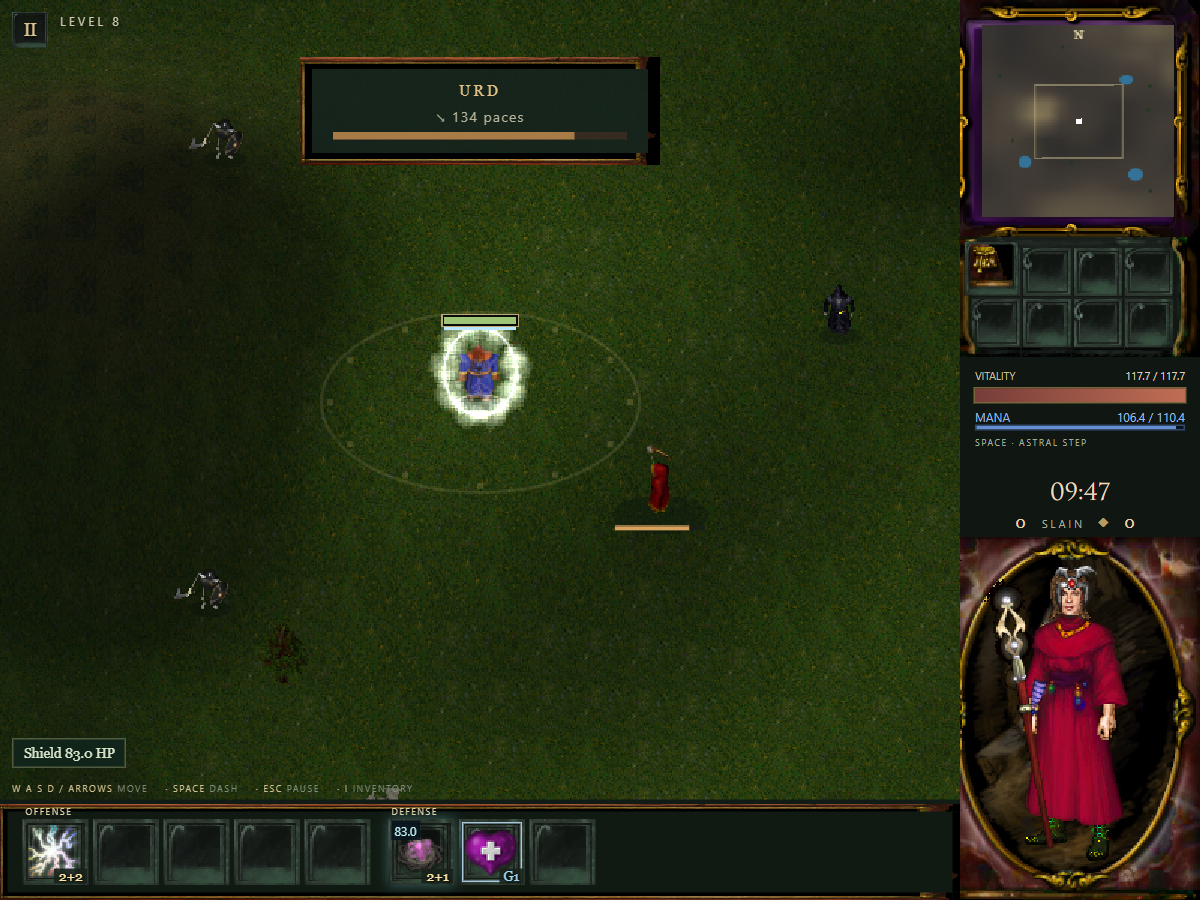
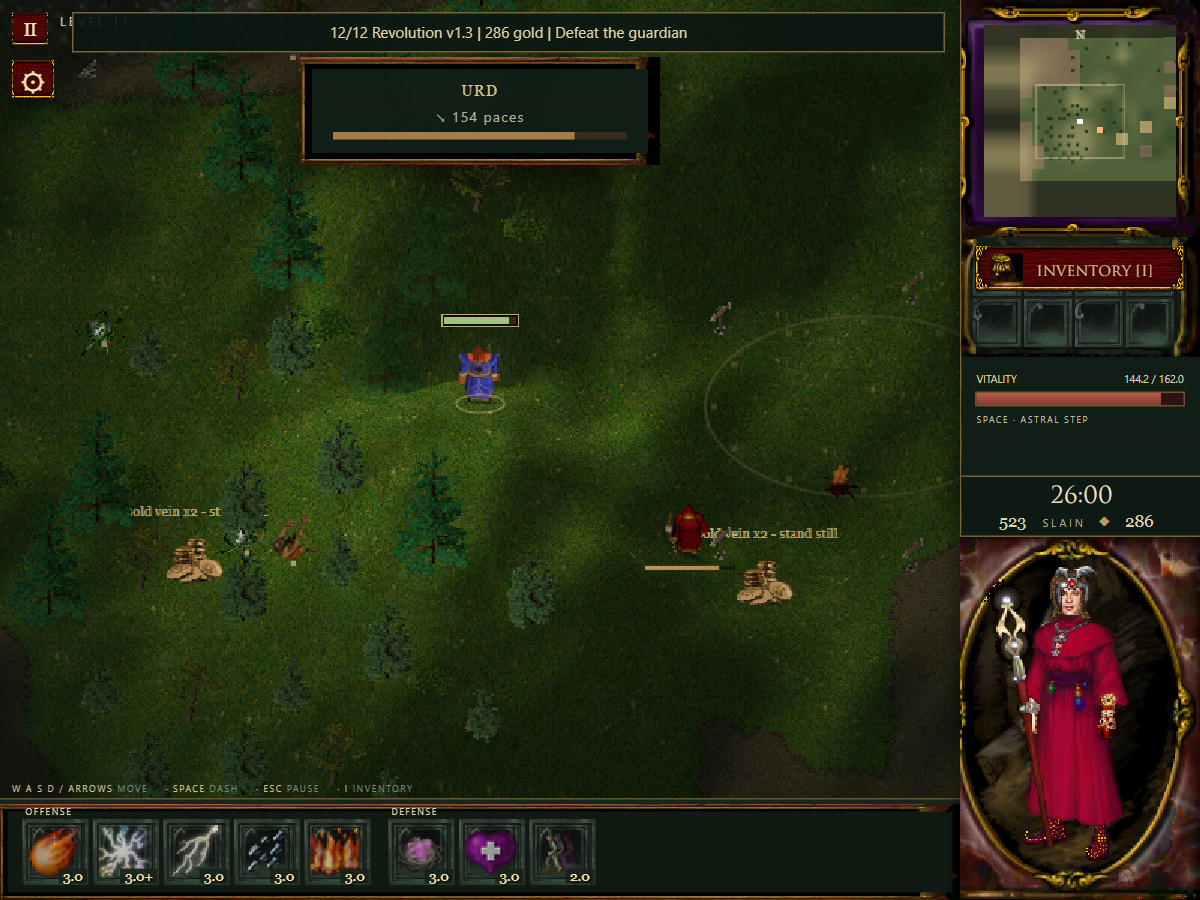
Refresh screenshots and project credits, fix responsive main menu

diff --git a/survivors/index.html b/survivors/index.html
@@ -2,5 +2,5 @@
 <html lang="en"><head><meta charset="utf-8"><meta name="viewport" content="width=device-width,initial-scale=1,viewport-fit=cover"><title>Allods Survivors</title><link rel="icon" href="assets/portrait-dragon.png"><link rel="stylesheet" href="style.css"><link rel="stylesheet" href="allods-ui.css"><link rel="stylesheet" href="lowres.css"><link rel="stylesheet" href="inventory.css"><link rel="stylesheet" href="shop.css"><link rel="stylesheet" href="vanilla-hud.css"><link rel="stylesheet" href="fonts.css"><link rel="stylesheet" href="forest-ui.css"><link rel="stylesheet" href="inspection.css"></head>
 <body><div id="game"><canvas id="world" aria-label="Allods Survivors battlefield"></canvas>
 <div id="hud" hidden><header><div class="brand">ALLODS <span>SURVIVORS</span></div><div class="clock" id="clock">00:00</div><div class="counters"><span id="kills">0</span> SLAIN <i>◆</i> <span id="gold">0</span></div></header><div class="xp-track"><div id="xp-fill"></div></div><div class="level-label" id="level">LEVEL 1</div><div id="announcement"></div><footer><div class="health-panel"><div class="health-heading">VITALITY <span id="hp-text"></span></div><div class="health-track"><div id="hp-fill"></div></div><div id="dash-label">SPACE · ASTRAL STEP</div></div><div id="skills"></div><button class="icon-button" id="pause-button" title="Pause (Escape)">Ⅱ</button></footer><div class="hint">W A S D / ARROWS <span>MOVE</span> · SPACE <span>DASH</span> · ESC <span>PAUSE</span></div></div>
-<main id="menu" class="overlay"><section class="menu-panel"><div class="eyebrow">A FRAGMENT OF A SHATTERED WORLD</div><h1>ALLODS<span>SURVIVORS</span></h1><div class="ornament">────── ◆ ──────</div><p class="intro">Explore native allods. Defeat their guardians. Escape.</p><div class="choose-label">CHOOSE YOUR WANDERER</div><div id="classes"></div><button id="start" class="primary" disabled>Awakening the allod…</button><div class="run-info">10 MINUTE SIEGE <b>◆</b> AUTOCAST COMBAT <b>◆</b> FINAL BOSS</div><div class="menu-bottom"><button id="legacy-button" class="text-button">Legacy <span id="bank"></span></button><button id="sound-button" class="text-button">Sound: on</button></div><p class="asset-note">Built from your local Allods 2 assets · independent fan game</p><p class="fan-notice"><strong>Unofficial fan project.</strong> Allods 2 was developed by Nival Interactive.<br>Original game and asset rights belong to their respective owners. No affiliation or endorsement.</p></section></main>
+<main id="menu" class="overlay"><section class="menu-panel"><div class="eyebrow">A FRAGMENT OF A SHATTERED WORLD</div><h1>ALLODS<span>SURVIVORS</span></h1><div class="ornament">────── ◆ ──────</div><p class="intro">Explore native allods. Defeat their guardians. Escape.</p><div class="choose-label">CHOOSE YOUR WANDERER</div><div id="classes"></div><button id="start" class="primary" disabled>Awakening the allod…</button><div class="run-info">10 MINUTE SIEGE <b>◆</b> AUTOCAST COMBAT <b>◆</b> FINAL BOSS</div><div class="menu-bottom"><button id="legacy-button" class="text-button">Legacy <span id="bank"></span></button><button id="sound-button" class="text-button">Sound: on</button></div><p class="asset-note">Built from your local Allods 2 assets · independent fan game</p><p class="fan-notice"><strong>Unofficial fan project.</strong> Allods 2 was developed by Nival Interactive.<br>Original game and asset rights belong to their respective owners. No affiliation or endorsement.</p></section><nav class="project-links" aria-label="Project links"><a href="https://github.com/Sxela/allods-survivors" target="_blank" rel="noopener noreferrer">GitHub</a><a href="https://github.com/Sxela/regis" target="_blank" rel="noopener noreferrer">made with REGIS</a></nav></main>
 <div id="modal" class="overlay" hidden></div><div id="toast" role="status"></div></div><script type="module" src="game.mjs"></script></body></html>

diff --git a/survivors/forest-ui.css b/survivors/forest-ui.css
@@ -150,3 +150,47 @@
 
 #game .route-setting{display:flex;align-items:center;justify-content:center;gap:12px;margin:8px 0;color:#e4d0a2;font:11px system-ui,sans-serif}
 #game #route-length{background:#14231a;color:#e8d6a9;border:1px solid #92723c;padding:7px;font:inherit}
+
+/* Small project credits outside the scrollable main-menu panel. */
+#game #menu .project-links{position:absolute;right:12px;bottom:calc(4px + var(--safe-bottom,0px));z-index:2;display:flex;justify-content:center;gap:14px;margin:0;padding:2px 6px;background:#08140eaa;border-radius:2px;font:8px/1.4 system-ui,sans-serif}
+#game #menu .project-links a{color:#c4b88f;text-decoration:underline;text-underline-offset:2px;padding:3px 2px}
+#game #menu .project-links a:hover{color:#ffe4ab}
+#game #menu .project-links a:focus-visible{outline:2px solid #ffe1a1;outline-offset:2px}
+#game.mobile #menu .project-links{font-size:14px;gap:20px}
+
+/* Fit the complete menu, including Continue, in the game's logical viewport. */
+#game #menu{container-type:size;padding:12px 22px 26px}
+#game #menu .menu-panel{overflow:visible;flex-shrink:0}
+#game #menu .menu-panel>*{flex-shrink:0}
+#game #menu .intro{margin:6px 0 10px}
+#game #menu .choose-label{margin-bottom:8px}
+#game #menu #classes{margin-bottom:8px}
+#game #menu .class-card{height:140px;min-height:0;display:flex;flex-direction:column;align-items:center}
+#game #menu .class-portrait{height:auto;min-height:0;max-height:108px;flex:1 1 0;width:90px}
+#game #menu .class-portrait img{width:100%;height:100%;object-fit:contain}
+#game #menu .class-card strong,#game #menu .class-card small{flex-shrink:0}
+#game #menu .asset-note{margin:6px 0;min-height:12px}
+#game #menu .fan-notice{margin-top:6px}
+#game #menu #continue-run{flex-shrink:0;margin:0 0 4px}
+@container (max-height:520px) and (min-width:650px){
+ #game #menu .menu-panel{width:700px;display:grid;grid-template-columns:repeat(2,minmax(0,1fr));gap:4px 24px;align-items:center;justify-items:center}
+ #game #menu h1{grid-column:1;grid-row:1;font-size:36px;letter-spacing:6px}
+ #game #menu h1 span{font-size:12px;letter-spacing:6px;margin-top:3px}
+ #game #menu .intro{grid-column:1;grid-row:2;font-size:10px;margin:0;line-height:1.3}
+ #game #menu .choose-label{grid-column:2;grid-row:1;width:100%;align-self:end;margin:0;font-size:7px;letter-spacing:2px}
+ #game #menu #classes{grid-column:2;grid-row:2 / 7;width:100%;height:100%;min-height:0;margin:0;gap:6px;align-self:stretch}
+ #game #menu .class-card{height:100%;width:100%;padding-bottom:4px}
+ #game #menu .class-card strong{font-size:12px}
+ #game #menu .class-card small{font-size:8px;white-space:normal}
+ #game #menu .difficulty-setting{grid-column:1;grid-row:3;gap:4px}
+ #game #menu .difficulty-setting>span{font-size:6px;letter-spacing:1px;margin-right:2px}
+ #game #menu .difficulty-setting .text-button{min-width:55px;padding:4px 7px}
+ #game #menu .route-setting{grid-column:1;grid-row:4;margin:0;font-size:10px;gap:8px}
+ #game #menu .asset-note{grid-column:1;grid-row:5;font-size:8px;line-height:1.3;margin:0;min-height:0}
+ #game #menu #start{grid-column:1;grid-row:6;width:100%;height:36px;min-height:36px;margin:0;font-size:13px;letter-spacing:1px;padding:7px 12px}
+ #game #menu #continue-run{grid-column:1;grid-row:7;margin:0;min-height:24px;font-size:10px;padding:5px 9px}
+ #game #menu .menu-bottom{grid-column:2;grid-row:7;margin:0;width:100%}
+ #game #menu .session-actions{grid-column:1;grid-row:8;margin:0;width:100%}
+ #game #menu .menu-bottom .text-button,#game #menu .session-actions .text-button{width:auto;flex:1;min-height:24px;padding:4px 6px;font-size:9px}
+ #game #menu .fan-notice{grid-column:2;grid-row:8;width:100%;margin:0;padding:4px 0 0;font-size:7px;line-height:1.35}
+}

diff --git a/README.md b/README.md
@@ -12,21 +12,29 @@ The campaign uses native map regions from the [Allods2.eu map pack](https://allo
 
 Allods 2 reference used for this project: [Allods2.eu: About](https://www.allods2.eu/en/about/).
 
+Built with workflows collected in [Regis](https://github.com/Sxela/regis), a combined skill developed from the findings of this project and related game adaptations.
+
 ## Screenshots
 
-| Elemental combat and spell loadouts | Equipment and the original character doll |
+Captured from the current build using staged encounters and example builds. Character dolls remain dressed.
+
+Level-up and camp cards show exact before/after stats, cooldown changes and estimated DPS. Improve hero stats or individual spells; every fifth level offers new spells, and five individual spell improvements unlock a free specialization with explicit trade-offs. Item spell-level bonuses remain part of the build. Current stats and the bestiary are available from the settings gear.
+
+| Native-map combat | Native terrain and scenery |
 | --- | --- |
-| ![Autocasting elemental spells with defensive buffs and the original HUD](docs/screenshots/combat.png) | ![Inventory with wearable gear and a fully dressed character doll](docs/screenshots/inventory.png) |
-| **Side-by-side item comparisons** | **Buy and sell in the inventory shop** |
-| ![Hover comparison showing stat gains, losses and spell-level bonuses](docs/screenshots/item-comparison.png) | ![The inventory shop with equipment offers and gold prices](docs/screenshots/shop.png) |
+| ![Elemental spells, defensive wards and the current HUD in a native map region](docs/screenshots/combat.png) | ![Original grassy terrain, elevation, scenery and larger gold veins](docs/screenshots/terrain.png) |
+| **Guardian encounters** | **Equipment and the original character doll** |
+| ![Urd on screen with the boss health bar and current campaign HUD](docs/screenshots/boss.png) | ![Current inventory with equipped items, backpack and a dressed character doll](docs/screenshots/inventory.png) |
+| **Level-up upgrades with exact stat and DPS changes** | **Spell specializations and their trade-offs** |
+| ![Level-up cards comparing spell damage, cooldown, DPS and hero upgrades before and after](docs/screenshots/upgrades.png) | ![Quick and focused spell specializations comparing cast speed, damage and sustained DPS](docs/screenshots/spell-upgrades.png) |
+| **Safe-camp upgrades** | **Equipment shop inside the inventory** |
+| ![Camp improvement cards with rarity, exact upgrade previews, prices and available gold](docs/screenshots/camp.png) | ![Current equipment shop with class-specific items and scaled gold prices](docs/screenshots/shop.png) |
+| **Side-by-side item comparisons** | **Current stats and contributing sources** |
+| ![An item hover comparison with gains, losses and individual spell-level bonuses](docs/screenshots/item-comparison.png) | ![Build inspection showing current hero stats and their class, equipment and upgrade sources](docs/screenshots/stats.png) |
 
-**Steep grassy hills**
+**Bestiary: original creatures, attack types and current encounter stats**
 
-![A steep grassy hill with a raised crest and shaded slope in the Shattered Grove](docs/screenshots/terrain.png)
-
-**Boss encounters**
-
-![Urd fully inside the arena, with the boss health bar visible](docs/screenshots/boss.png)
+![The searchable bestiary showing original dragon artwork and scaled combat information](docs/screenshots/bestiary.png)
 
 Move with WASD or the arrow keys. Spells cast automatically. Space dashes, I opens inventory, and Escape pauses. Defeat each guardian, extract, and finish the final camp after defeating Urd. Death resets progression. Compatible equipment fills empty slots and clear upgrades equip automatically; items with stat tradeoffs remain in the backpack.
 
